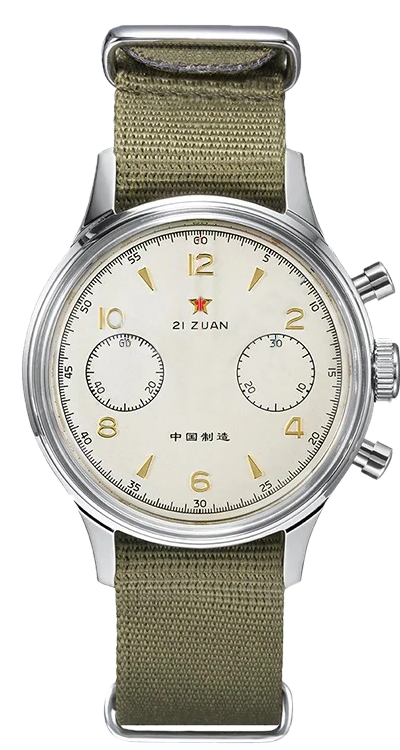
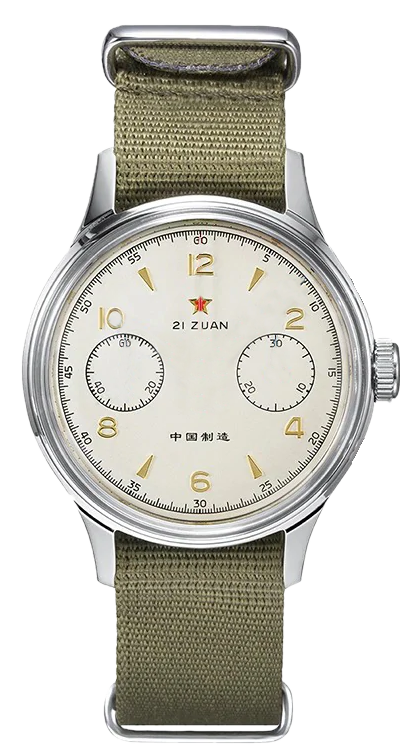
Added clickable buttons to 1963

Changed region(s): [[0.87, 0.5827, 0.99, 0.644], [0.87, 0.3373, 0.99, 0.4293]]

diff --git a/js/draw.js b/js/draw.js
@@ -244,12 +244,14 @@ function watchSelect() {
 	}
 	else if (watch == "seagull") {
 		watchcontainer(watch);
+		chronoPusherStart(watch, 0, 0, 50, 90); //Offset percentage: top, right, bottom, left
+		chronoPusherReset(watch, 45, 0, 0, 90); //Offset percentage: top, right, bottom, left
 		face(watch);
 		hour(watch);
 		minute(watch);
 		second(watch, 0, 38, 1, 0); //Offset percentage: top, right, bottom, left
-		chronoMinute(watch, 0, -38, 1, 0)
-		chronoSecond(watch)
+		chronoMinute(watch, 0, -38, 1, 0);
+		chronoSecond(watch);
 		analogueTime(166.66667);//Beat rate goes in here
 	}
 };
@@ -368,7 +370,16 @@ function chronoSecond(watch) {
 	var div = document.createElement("div");
 	div.id = "chronosecond";
 	div.className = "watch brightness";
-	div.innerHTML = "<img src='img/"+watch+"/chronosecond.png' id='minuteImg' class='imgDisplay'>";
+	div.innerHTML = "<img src='img/"+watch+"/chronosecond.png' id='chronosecondImg' class='imgDisplay'>";
+    container.appendChild(div);
+};
+
+function chronoSecondLume(watch) {
+	var container = document.getElementById("watchcontainer");
+	var div = document.createElement("div");
+	div.id = "chronosecondlume";
+	div.className = "watch lume";
+	div.innerHTML = "<img src='img/"+watch+"/chronosecondlume.png' id='chronosecondlumeImg' class='imgDisplay'>";
     container.appendChild(div);
 };
 
@@ -382,6 +393,84 @@ function chronoMinute(watch, marginTop, marginRight, marginBottom, marginLeft) {
 		div.setAttribute("style", "margin: "+marginTop+"% "+marginRight+"% "+marginBottom+"% "+marginLeft+"%");
 	}
     container.appendChild(div);
+};
+
+function chronoMinuteLume(watch, marginTop, marginRight, marginBottom, marginLeft) {
+	var container = document.getElementById("watchcontainer");
+	var div = document.createElement("div");
+	div.id = "chronominutelume";
+	div.className = "watch lume";
+	div.innerHTML = "<img src='img/"+watch+"/chronominutelume.png' id='chronominutelumeImg' class='imgDisplay'>";
+	if (marginTop || marginRight || marginBottom || marginLeft) {//Offsets the hand if arguments were provided
+		div.setAttribute("style", "margin: "+marginTop+"% "+marginRight+"% "+marginBottom+"% "+marginLeft+"%");
+	}
+    container.appendChild(div);
+};
+
+function chronoPusherStart(watch, marginTop, marginRight, marginBottom, marginLeft) {
+	var container = document.getElementById("watchcontainer");
+	//Creates the visual element
+	var container = document.getElementById("watchcontainer");
+	var div = document.createElement("div");
+	div.id = "chronopusherstart";
+	div.className = "watch brightness";
+	div.innerHTML = "<img src='img/"+watch+"/chronopusherstart.png' id='chronopusherstartImg' class='imgDisplay'>";
+	//Creates the clickable element
+	var div2 = document.createElement("div");
+	div2.id = "chronopusherstartclickzone";
+	div2.className = "clickzone";
+	if (marginTop || marginRight || marginBottom || marginLeft) {//Offsets the hand if arguments were provided
+		div2.setAttribute("style", "margin: "+marginTop+"% "+marginRight+"% "+marginBottom+"% "+marginLeft+"%");
+	}
+	container.appendChild(div);
+    container.appendChild(div2);
+	
+	//Animating the pusher on click
+	div2.addEventListener("mousedown", startButtonDown);
+	div2.addEventListener("touchstart", startButtonDown);
+	div2.addEventListener("mouseup", startButtonUp);
+	div2.addEventListener("mouseleave", startButtonUp);
+	div2.addEventListener("touchend", startButtonUp);
+	div2.addEventListener("touchcancel", startButtonUp);
+	function startButtonDown() {
+		div.style.margin = "2% 3% 0 0";//top, right, bottom, left
+	};
+	function startButtonUp() {
+		div.style.margin = "0 0 0 0";
+	};
+};
+
+function chronoPusherReset(watch, marginTop, marginRight, marginBottom, marginLeft) {
+	var container = document.getElementById("watchcontainer");
+	//Creates the visual element
+	var container = document.getElementById("watchcontainer");
+	var div = document.createElement("div");
+	div.id = "chronopushereset";
+	div.className = "watch brightness";
+	div.innerHTML = "<img src='img/"+watch+"/chronopusherreset.png' id='chronopusherresetImg' class='imgDisplay'>";
+	//Creates the clickable element
+	var div2 = document.createElement("div");
+	div2.id = "chronopusherresetclickzone";
+	div2.className = "clickzone";
+	if (marginTop || marginRight || marginBottom || marginLeft) {//Offsets the hand if arguments were provided
+		div2.setAttribute("style", "margin: "+marginTop+"% "+marginRight+"% "+marginBottom+"% "+marginLeft+"%");
+	}
+	container.appendChild(div);
+    container.appendChild(div2);
+	
+	//Animating the pusher on click
+	div2.addEventListener("mousedown", startButtonDown);
+	div2.addEventListener("touchstart", startButtonDown);
+	div2.addEventListener("mouseup", startButtonUp);
+	div2.addEventListener("mouseleave", startButtonUp);
+	div2.addEventListener("touchend", startButtonUp);
+	div2.addEventListener("touchcancel", startButtonUp);
+	function startButtonDown() {
+		div.style.margin = "0 3% 2% 0";//top, right, bottom, left
+	};
+	function startButtonUp() {
+		div.style.margin = "0 0 0 0";
+	};
 };
 
 function bezel(watch, clicks) {

diff --git a/css/style.css b/css/style.css
@@ -7,6 +7,7 @@
 body {
 	/*background: transparent;*/
 	margin: 0;
+    user-select: none;
 }
 
 p1 {
@@ -87,6 +88,17 @@ img {
 
 .lume {
 	opacity: var(--lume);
+}
+
+.clickzone {
+	display: flex;
+    position: absolute;
+    width: 20%;
+	padding-top: 20%;/*match with the width to make a square that works at any screen size*/
+	align-items: center;
+    justify-content: center;
+	/*background-color: rgba(0, 255, 0, 0.5);*/
+	z-index: 100;
 }
 
 input[type=range]{

diff --git a/index.htm b/index.htm
@@ -26,7 +26,7 @@
 			<option value="fliegerb">Flieger B-Uhr</option>
 			<option value="marathonmod">Marathon MSAR Auto (Max Lume)</option>
 			<option value="marathonmod2">Generic Tacticool Watch</option>
-			<option value="seagull">Seagull 1963 (bugged)</option>
+			<option value="seagull">Seagull 1963</option>
 		</select>
 	</div>
 	<div><button type="button" id="fullscreenButton" onclick="fullscreen()">Toggle Fullscreen</button></div>
